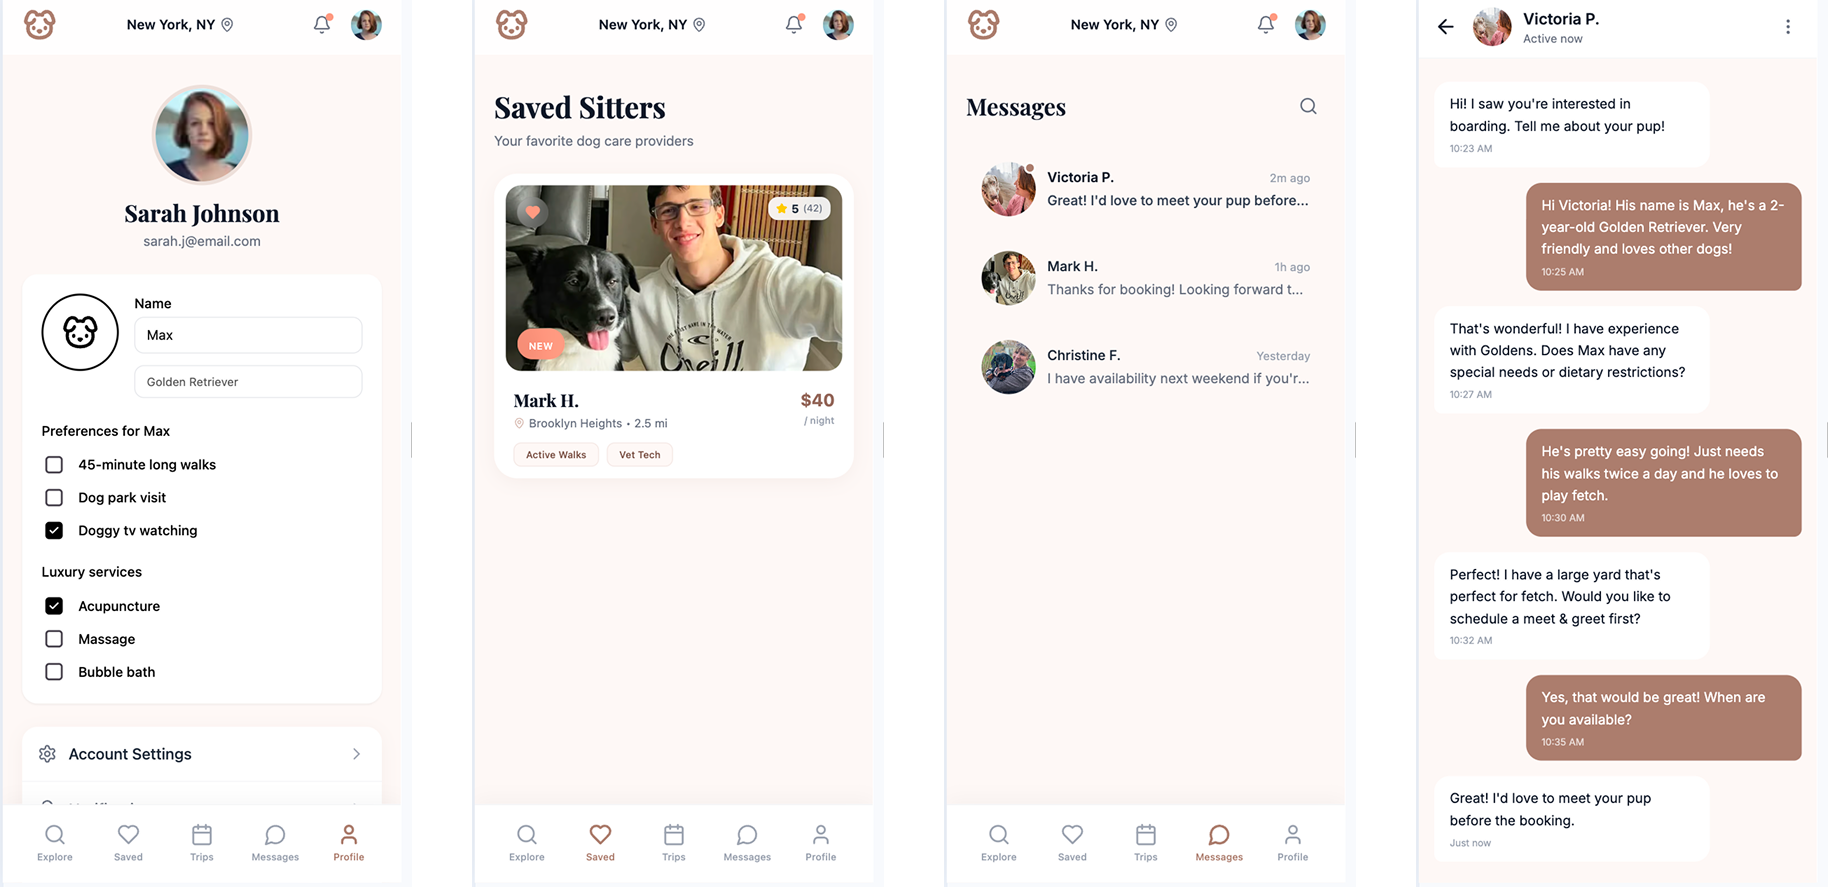
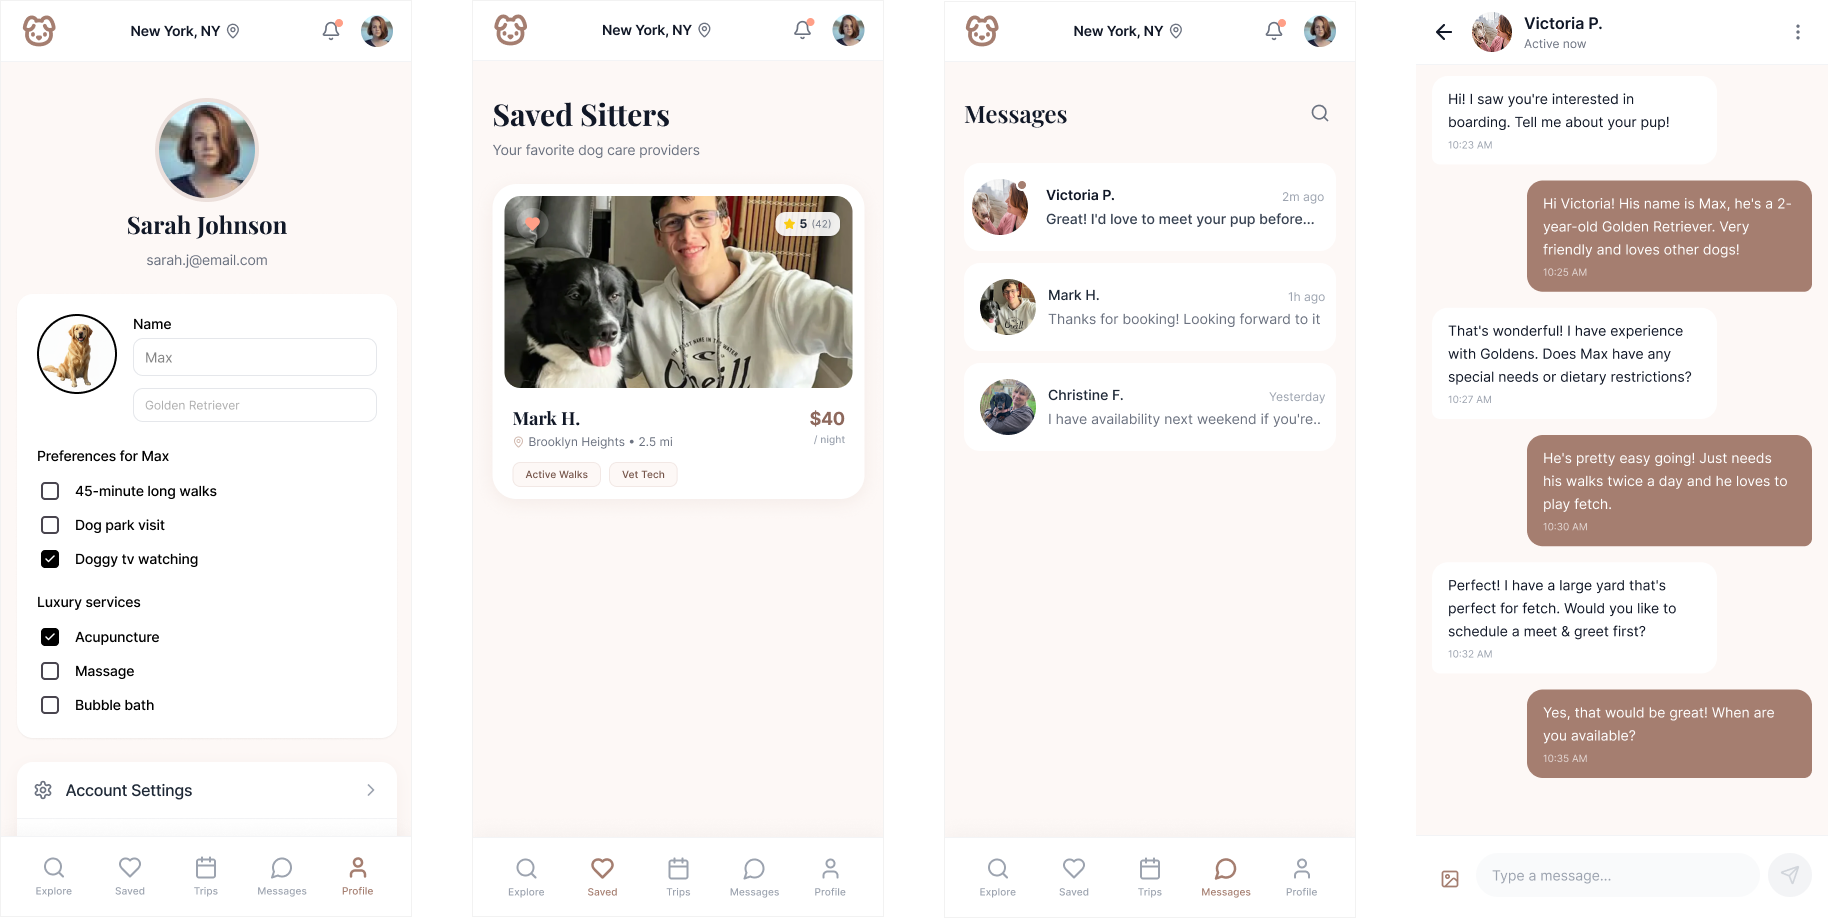
Updated mocks

diff --git a/case-studies/dogstay.html b/case-studies/dogstay.html
@@ -115,9 +115,10 @@
         </section>
 
         <!-- UI Concept Section -->
-        <section class="section">
-            <div class="container-narrow">
+        <section class="section" style="background: #ffffff;">
+            <div class="container">
                 <h2 class="section-title">UI Concept</h2>
+                <p class="section-subtitle">Designed a trust-first experience balancing discovery, compatibility, and safety.</p>
 
                 <div style="display: flex; justify-content: space-around; max-width: 100%; margin: 0 auto 8px auto;">
                     <p style="text-align: center; font-size: 14px; color: var(--text-gray); margin: 0; flex: 1;">Home</p>
